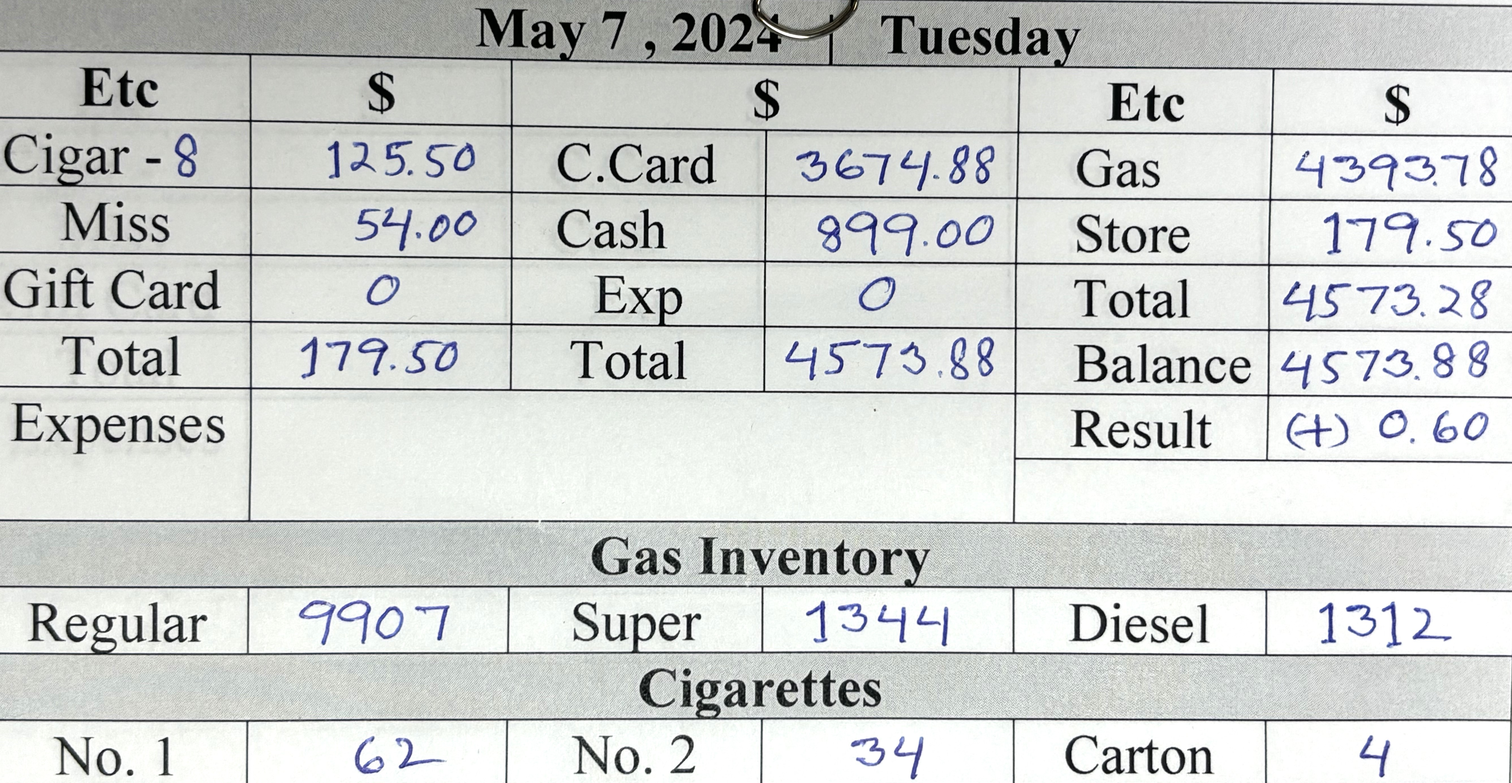
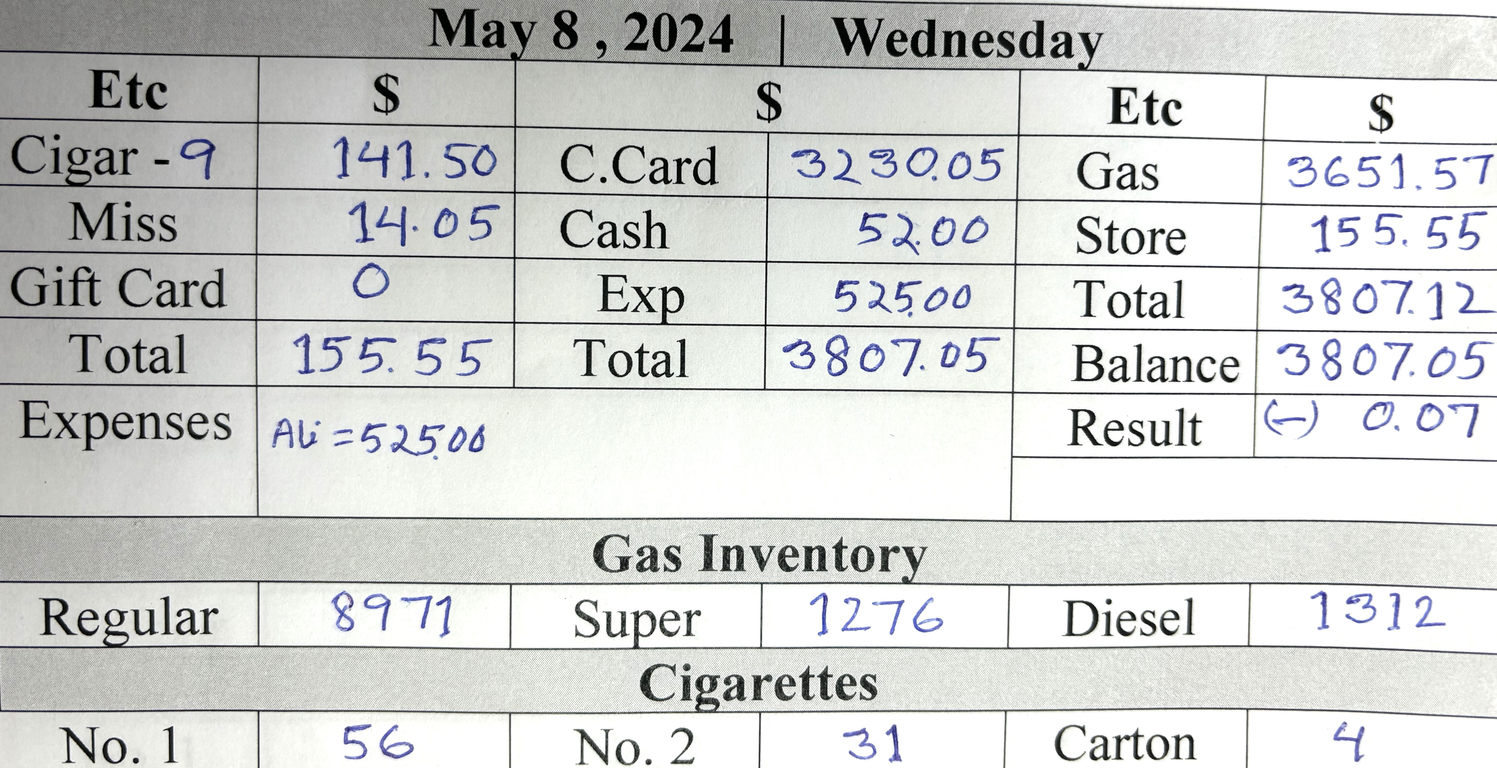
d

diff --git a/card.min.html b/card.min.html
@@ -1,1 +1,1 @@
-<!DOCTYPE html> <html lang="en"> <head> <meta charset="UTF-8"> <meta http-equiv="X-UA-Compatible" content="IE=edge"> <meta name="viewport" content="width=device-width,initial-scale=1"> <title>Gallon Info</title> <link rel="stylesheet" href="https://cdn.jsdelivr.net/npm/bootstrap@5.3.0-alpha1/dist/css/bootstrap.min.css"> </head> <body> <div class="card-group d-sm-flex flex-row bd-highlight mb- justify-content-center"> <div class="card bg-secondary align-items-center justify-content-center" style="height:50px"> <div class="card-body text-info fst-italic"> <h5 class="card-title fw-bolder text-center">Regular Price : <span class="text-warning">$3.59 <sup class="text-white fw-bolder fs-5">9</sup></span></h5> </div> </div> <div class="card bg-secondary align-items-center justify-content-center" style="height:50px"> <div class="card-body text-info fst-italic"> <h5 class="card-title fw-bolder text-center pt-">Silver Price : <span class="text-warning">$4.55<sup class="text-white fw-bolder fs-5">9</sup></span></h5> </div> </div> <div class="card bg-secondary align-items-center justify-content-center" style="height:50px"> <div class="card-body text-info fst-italic"> <h5 class="card-title fw-bolder text-center">Super Price : <span class="text-warning">$4.65<sup class="text-white fw-bolder fs-5">9</sup></span></h5> </div> </div> <div class="card bg-secondary align-items-center justify-content-center" style="height:50px"> <div class="card-body text-info fst-italic"> <h5 class="card-title fw-bolder text-center">Diesel Price : <span class="text-warning">$4.45<sup class="text-white fw-bolder fs-5">9</sup></span></h5> </div> </div> </div> <div class="card-group"> <div class="card"> <button type="button" class="btn btn-warning text- fs- fw-bold text-uppercase"> For store Details <a title="printPage Me" class="text-bg-danger ms-3 fw-bolder p-1 rounded-3 text-decoration-none" href="index.html"> Click Me </a> </button> </div> </div> <div class="card-group m-0 d-sm-flex flex-row bd-highlight mb-"> <div class="card me-1 bg-info"> <h5 class="card-title text-center pt-4 m-0"> <button class="p-1 rounded-3" type="button"><a title="Click Me" class="text-decoration-none text-primary fw-bolder" href="index.html">   </a> </button> </h5>  <p class="card-text"></p> <img src="allPic/7.jpg" class="card-img-top text-danger text-center fw-bolder fs-3" alt="Call Rashid "> <div class="card-body">   <p class="card-text"></p> </div> </div> <div class="card me-1 bg-info"> <h5 class="card-title text-center pt-4 m-0"> <button class="p-1 rounded-3" type="button"><a title="Click Me" class="text-primary fw-bolder text-decoration-none" href="index.html"> May 6,2024 </a> </button> </h5>  <p class="card-text"></p> <img src="allPic/6.jpg" class="card-img-top text-center text-bg-danger" alt="Not Done"> <div class="card-body">   <p class="card-text"></p> </div> </div> <div class="card ms- bg-info"> <h5 class="card-title text-center pt-4 m-0"> <button class="p-1 rounded-3" type="button"><a title="Click Me" class="text-primary fw-bolder text-decoration-none" href="index.html"> May 5,2024 </a> </button> </h5>  <p class="card-text"></p> <img src="allPic/5.jpg" class="card-img-top text-center text-bg-danger" alt="Not Done"> <div class="card-body">   <p class="card-text"></p> </div> </div> <div class="card me-1 bg-info"> <h5 class="card-title text-center pt-4 m-0"> <button class="p-1 rounded-3" type="button"><a title="Click Me" class="text-primary fw-bolder text-decoration-none" href="index.html"> May 4,2024 </a> </button> </h5>  <p class="card-text"></p> <img title="Pic" src="allPic/4.jpg" class="card-img-top text-bg-danger fw-bolder text-center" alt="Already Done"> <div class="card-body">   <p class="card-text"></p> </div> </div> </div> <div class="card"> <div class="card-header bg-warning text-dark fw-bolder text-center py-3"> All Rights Reserved @ Jaber Ali , 2024 </div> </div>  <script type="text/javascript">const timeElement=document.querySelector(".time"),dateElement=document.querySelector(".date");function formatTime(e){e.getHours(),e.getMinutes(),e.getHours();return""}function formatDate(e){return` ${["January","Marruary","March","April","May","June","July","August","September","October","November","December"][e.getMonth()]} ${e.getDate()-1}, ${e.getFullYear()}`}setInterval((()=>{const e=new Date;timeElement.textContent=formatTime(e),dateElement.textContent=formatDate(e)}),200)</script> 
+<!DOCTYPE html> <html lang="en"> <head> <meta charset="UTF-8"> <meta http-equiv="X-UA-Compatible" content="IE=edge"> <meta name="viewport" content="width=device-width,initial-scale=1"> <title>Gallon Info</title> <link rel="stylesheet" href="https://cdn.jsdelivr.net/npm/bootstrap@5.3.0-alpha1/dist/css/bootstrap.min.css"> </head> <body> <div class="card-group d-sm-flex flex-row bd-highlight mb- justify-content-center"> <div class="card bg-secondary align-items-center justify-content-center" style="height:50px"> <div class="card-body text-info fst-italic"> <h5 class="card-title fw-bolder text-center">Regular Price : <span class="text-warning">$3.59 <sup class="text-white fw-bolder fs-5">9</sup></span></h5> </div> </div> <div class="card bg-secondary align-items-center justify-content-center" style="height:50px"> <div class="card-body text-info fst-italic"> <h5 class="card-title fw-bolder text-center pt-">Silver Price : <span class="text-warning">$4.55<sup class="text-white fw-bolder fs-5">9</sup></span></h5> </div> </div> <div class="card bg-secondary align-items-center justify-content-center" style="height:50px"> <div class="card-body text-info fst-italic"> <h5 class="card-title fw-bolder text-center">Super Price : <span class="text-warning">$4.65<sup class="text-white fw-bolder fs-5">9</sup></span></h5> </div> </div> <div class="card bg-secondary align-items-center justify-content-center" style="height:50px"> <div class="card-body text-info fst-italic"> <h5 class="card-title fw-bolder text-center">Diesel Price : <span class="text-warning">$4.45<sup class="text-white fw-bolder fs-5">9</sup></span></h5> </div> </div> </div> <div class="card-group"> <div class="card"> <button type="button" class="btn btn-warning text- fs- fw-bold text-uppercase"> For store Details <a title="printPage Me" class="text-bg-danger ms-3 fw-bolder p-1 rounded-3 text-decoration-none" href="index.html"> Click Me </a> </button> </div> </div> <div class="card-group m-0 d-sm-flex flex-row bd-highlight mb-"> <div class="card me-1 bg-info"> <h5 class="card-title text-center pt-4 m-0"> <button class="p-1 rounded-3" type="button"><a title="Click Me" class="text-decoration-none text-primary fw-bolder" href="index.html">   </a> </button> </h5>  <p class="card-text"></p> <img src="allPic/8.jpg" class="card-img-top text-danger text-center fw-bolder fs-3" alt="Call Rashid "> <div class="card-body">   <p class="card-text"></p> </div> </div> <div class="card me-1 bg-info"> <h5 class="card-title text-center pt-4 m-0"> <button class="p-1 rounded-3" type="button"><a title="Click Me" class="text-primary fw-bolder text-decoration-none" href="index.html"> May 7,2024 </a> </button> </h5>  <p class="card-text"></p> <img src="allPic/7.jpg" class="card-img-top text-center text-bg-danger" alt="Not Done"> <div class="card-body">   <p class="card-text"></p> </div> </div> <div class="card ms- bg-info"> <h5 class="card-title text-center pt-4 m-0"> <button class="p-1 rounded-3" type="button"><a title="Click Me" class="text-primary fw-bolder text-decoration-none" href="index.html"> May 6,2024 </a> </button> </h5>  <p class="card-text"></p> <img src="allPic/6.jpg" class="card-img-top text-center text-bg-danger" alt="Not Done"> <div class="card-body">   <p class="card-text"></p> </div> </div> <div class="card me-1 bg-info"> <h5 class="card-title text-center pt-4 m-0"> <button class="p-1 rounded-3" type="button"><a title="Click Me" class="text-primary fw-bolder text-decoration-none" href="index.html"> May 5,2024 </a> </button> </h5>  <p class="card-text"></p> <img title="Pic" src="allPic/5.jpg" class="card-img-top text-bg-danger fw-bolder text-center" alt="Already Done"> <div class="card-body">   <p class="card-text"></p> </div> </div> </div> <div class="card"> <div class="card-header bg-warning text-dark fw-bolder text-center py-3"> All Rights Reserved @ Jaber Ali , 2024 </div> </div>  <script type="text/javascript">const timeElement=document.querySelector(".time"),dateElement=document.querySelector(".date");function formatTime(e){e.getHours(),e.getMinutes(),e.getHours();return""}function formatDate(e){return` ${["January","Marruary","March","April","May","June","July","August","September","October","November","December"][e.getMonth()]} ${e.getDate()-1}, ${e.getFullYear()}`}setInterval((()=>{const e=new Date;timeElement.textContent=formatTime(e),dateElement.textContent=formatDate(e)}),200)</script> 

diff --git a/weekly.min.html b/weekly.min.html
@@ -1,1 +1,1 @@
-<!DOCTYPE html> <html lang="en"> <meta charset="UTF-8"> <meta http-equiv="X-UA-Compatible" content="IE=edge"> <meta name="viewport" content="width=device-width,initial-scale=1"> <title>Cigarettes Info</title> <link rel="stylesheet" href="https://cdn.jsdelivr.net/npm/bootstrap@5.3.0-alpha1/dist/css/bootstrap.min.css">  <body> <div class="text-bg-success py-2 fw-bold"> <marquee behavior="" direction="">Weekly Total Sales Money</marquee> </div> <div class="container-fluid text-center m-0 p-0"> <div class="card-group"> <div class="card"> <button type="button" class="btn btn-warning fs- fw-bold text-uppercase"> Home Page <a title="printPage Me" class="text-bg-danger ms-2 fw-bolder p-1 rounded-3 text-decoration-none" href="index.html"> Click Me </a> </button> </div> </div> <div class="text-bg-info text-cente py- fw-bold mb-"> <div class="card-group m-0 d-sm-flex flex-row bd-highlight mb-"> <div class="card me- bg-inf"> <h5 class="text-center ms-5 mt-3 text-danger">Current Week</h5> <div class="card-body ms-3 p-0"> <table class="table"> <tr class="text-end"> <td>Monday </td> <td>:</td> <td class="text-start"> - 497.00 [auto pabe]</td> </tr> <tr class="text-end"> <td>Tuesday </td> <td> :</td> <td class="text-start"> 899.00 </td> </tr> <tr class="text-end"> <td>Wednesday</td> <td> :</td> <td class="text-start"> .00</td> </tr> <tr class="text-end"> <td>Thursday </td> <td> :</td> <td class="text-start">.00 </td> </tr> <tr class="text-end"> <td class="">Friday </td> <td> :</td> <td class="text-start"> .00</td> </tr> <tr class="text-end"> <td>Saturday </td> <td> :</td> <td class="text-start"> .00</td> </tr> <tr class="text-end"> <td>Sunday </td> <td> :</td> <td class="text-start"> .00 </td> </tr> <tr class="text-end"> <td>Auto Money </td> <td> :</td> <td class="text-start"> .00 </td> </tr> </table> <div class="m-0 p-0"> <p class="text-center text-danger bg-light fw-bold">Total Money : 0 </p> </div> </div> </div> <div class="card me- bg-inf"> <h5 class="text-center ms- mt-3 text-danger">Last Week : Apr 29 to May 5 , 2024</h5> <div class="card-body ms-3 p-0"> <table class="table"> <tr class="text-end"> <td>Monday </td> <td>:</td> <td class="text-start"> 1129.00</td> </tr> <tr class="text-end"> <td>Tuesday </td> <td> :</td> <td class="text-start"> 813.00 </td> </tr> <tr class="text-end"> <td>Wednesday</td> <td> :</td> <td class="text-start"> 492.00</td> </tr> <tr class="text-end"> <td>Thursday </td> <td> :</td> <td class="text-start">190.00 </td> </tr> <tr class="text-end"> <td class="">Friday </td> <td> :</td> <td class="text-start"> 806.00</td> </tr> <tr class="text-end"> <td>Saturday </td> <td> :</td> <td class="text-start"> 1015.00</td> </tr> <tr class="text-end"> <td>Sunday </td> <td> :</td> <td class="text-start"> 647.00 </td> </tr> <tr class="text-end"> <td>Auto Money </td> <td> :</td> <td class="text-start"> 1012 <sup class="p-1 rounded-4 text-bg-dark">Tax:99</sup> [Mostofa=913] </td> </tr> </table> <div class="m-0 p-0"> <p class="text-center text-danger bg-light fw-bold">Total Money : 6104 - 1219 = 4885 </p> </div> </div> </div> <div class="card me- bg-"> <div class="card-body"> <h5 class="text-start text-danger ms-2">Expenses of Last Week</h5> <table class="table text-start"> <tr> <td class="">Ali <span class="ms-5">: 525.00</span></td> </tr> <tr> <td class="">Rashid <span class="ms-3">: 572.00</span></td> </tr> <tr> <td class="">Landscaping <span class="ms-2">: 120.00</span></td> </tr> <tr> <td class="">Pump Test <span class="ms-2">: 2.00</span></td> </tr> <tr> <td class="text-bg-warning text-dark rounded-2">Total <span class="ms-4">: 1219.00</span></td> </tr> </table> </div> </div> </div> </div> <!-- #footer start --> <div class="text-bg-success text-center py-2 fw-bold"> <p> All Rights Reserved @ Jaber Ali , 2024  </p> </div> </div> <script type="text/javascript">function printPage(){window.print()}</script> 
+<!DOCTYPE html> <html lang="en"> <meta charset="UTF-8"> <meta http-equiv="X-UA-Compatible" content="IE=edge"> <meta name="viewport" content="width=device-width,initial-scale=1"> <title>Cigarettes Info</title> <link rel="stylesheet" href="https://cdn.jsdelivr.net/npm/bootstrap@5.3.0-alpha1/dist/css/bootstrap.min.css">  <body> <div class="text-bg-success py-2 fw-bold"> <marquee behavior="" direction="">Weekly Total Sales Money</marquee> </div> <div class="container-fluid text-center m-0 p-0"> <div class="card-group"> <div class="card"> <button type="button" class="btn btn-warning fs- fw-bold text-uppercase"> Home Page <a title="printPage Me" class="text-bg-danger ms-2 fw-bolder p-1 rounded-3 text-decoration-none" href="index.html"> Click Me </a> </button> </div> </div> <div class="text-bg-info text-cente py- fw-bold mb-"> <div class="card-group m-0 d-sm-flex flex-row bd-highlight mb-"> <div class="card me- bg-inf"> <h5 class="text-center ms-5 mt-3 text-danger">Current Week</h5> <div class="card-body ms-3 p-0"> <table class="table"> <tr class="text-end"> <td>Monday </td> <td>:</td> <td class="text-start"> - 497.00 [auto pabe]</td> </tr> <tr class="text-end"> <td>Tuesday </td> <td> :</td> <td class="text-start"> 899.00 </td> </tr> <tr class="text-end"> <td>Wednesday</td> <td> :</td> <td class="text-start"> 577.00</td> </tr> <tr class="text-end"> <td>Thursday </td> <td> :</td> <td class="text-start">.00 </td> </tr> <tr class="text-end"> <td class="">Friday </td> <td> :</td> <td class="text-start"> .00</td> </tr> <tr class="text-end"> <td>Saturday </td> <td> :</td> <td class="text-start"> .00</td> </tr> <tr class="text-end"> <td>Sunday </td> <td> :</td> <td class="text-start"> .00 </td> </tr> <tr class="text-end"> <td>Auto Money </td> <td> :</td> <td class="text-start"> .00 </td> </tr> </table> <div class="m-0 p-0"> <p class="text-center text-danger bg-light fw-bold">Total Money : 0 </p> </div> </div> </div> <div class="card me- bg-inf"> <h5 class="text-center ms- mt-3 text-danger">Last Week : Apr 29 to May 5 , 2024</h5> <div class="card-body ms-3 p-0"> <table class="table"> <tr class="text-end"> <td>Monday </td> <td>:</td> <td class="text-start"> 1129.00</td> </tr> <tr class="text-end"> <td>Tuesday </td> <td> :</td> <td class="text-start"> 813.00 </td> </tr> <tr class="text-end"> <td>Wednesday</td> <td> :</td> <td class="text-start"> 492.00</td> </tr> <tr class="text-end"> <td>Thursday </td> <td> :</td> <td class="text-start">190.00 </td> </tr> <tr class="text-end"> <td class="">Friday </td> <td> :</td> <td class="text-start"> 806.00</td> </tr> <tr class="text-end"> <td>Saturday </td> <td> :</td> <td class="text-start"> 1015.00</td> </tr> <tr class="text-end"> <td>Sunday </td> <td> :</td> <td class="text-start"> 647.00 </td> </tr> <tr class="text-end"> <td>Auto Money </td> <td> :</td> <td class="text-start"> 1012 <sup class="p-1 rounded-4 text-bg-dark">Tax:99</sup> [Mostofa=913] </td> </tr> </table> <div class="m-0 p-0"> <p class="text-center text-danger bg-light fw-bold">Total Money : 6104 - 1219 = 4885 </p> </div> </div> </div> <div class="card me- bg-"> <div class="card-body"> <h5 class="text-start text-danger ms-2">Expenses of Last Week</h5> <table class="table text-start"> <tr> <td class="">Ali <span class="ms-5">: 525.00</span></td> </tr> <tr> <td class="">Rashid <span class="ms-3">: 572.00</span></td> </tr> <tr> <td class="">Landscaping <span class="ms-2">: 120.00</span></td> </tr> <tr> <td class="">Pump Test <span class="ms-2">: 2.00</span></td> </tr> <tr> <td class="text-bg-warning text-dark rounded-2">Total <span class="ms-4">: 1219.00</span></td> </tr> </table> </div> </div> </div> </div> <!-- #footer start --> <div class="text-bg-success text-center py-2 fw-bold"> <p> All Rights Reserved @ Jaber Ali , 2024  </p> </div> </div> <script type="text/javascript">function printPage(){window.print()}</script> 

diff --git a/index.min.html b/index.min.html
@@ -1,1 +1,1 @@
-<!DOCTYPE html> <html lang="en"> <head> <meta charset="UTF-8"> <meta http-equiv="X-UA-Compatible" content="IE=edge"> <meta name="viewport" content="width=device-width,initial-scale=1"> <title>Store Info</title> <link rel="stylesheet" href="https://cdn.jsdelivr.net/npm/bootstrap@5.3.0-alpha1/dist/css/bootstrap.min.css"> </head> <body> <div class="text-bg-success py-2 fw-bold text-uppercase"> <marquee behavior="" direction=""><span class="text-bolder text-bg-danger rounded-circle m-lg-2 fs-">***</span> Personal Business Information <span class="text-bolder text-bg-danger rounded-circle m-lg-2 fs-">***</span></marquee> </div> <div class="card-group"> <div class="card"> <button type="button" class="btn btn-warning fs- fw-bold text-uppercase"> For Gallon Details <a title="printPage Me" class="text-bg-danger ms-3 fw-bolder p-1 rounded-3 text-decoration-none" href="card.html"> Click Me </a> </button> </div> <div class="card"> <button type="button" class="btn btn-warning fs- fw-bold text-uppercase"> Weekly Total Money<a title="printPage Me" class="text-bg-danger ms-3 fw-bolder p-1 rounded-3 text-decoration-none" href="weekly.html"> Click Me </a> </button> </div> </div> <div class="card-group"> <div class="card"> <button type="button" class="btn btn-warning fs- fw-bold text-uppercase"> Order Cigarettes <a title="printPage Me" class="text-bg-danger ms-3 fw-bolder p-1 rounded-3 text-decoration-none" href="cigarettes.html"> Click Me </a> </button> </div> <div class="card"> <button type="button" class="btn btn-warning fs- fw-bold text-uppercase"> Oil Inventory<a title="printPage Me" class="text-bg-danger ms-3 fw-bolder p-1 rounded-3 text-decoration-none" href="oil.html"> Click Me </a> </button> </div> </div> <div class="text-center py-2"> <button class="fw-bold fs-5 rounded-2 text-bg-light text-primary"> <a title="printPage Me" class="text-decoration-none" href="card.html">   <span class=""> <button class="ms-5 fw-bolder rounded-2" onclick="printPage()"> Print Me </button></span> </a> </button> </div> <div class="card-group"> <div class="card"> <button type="button" class="btn btn-info fs- fw-bold text-uppercase"> Shift Report <span class="text-white ms-1">*</span> </button> <img src="allPic/hisab.jpg" class="card-img-top text-center text-bg-danger" alt="NOT FINISH"> </div> </div> <div class="card-grou"> <div class="card pb-3"> <button type="button" class="btn btn-secondary fs fw-bold text-uppercase"> Exp : <span class="text-warning ms-3">0 </span> </button> </div> </div> <div class="card-group"> <div class="card"> <button type="button" class="btn btn-secondary fs- fw-bold text-uppercase"> Auto shop </button> </div> </div> <div class="pb-3"> <div class="d-flex justify-content-around border border-dark fw-bolder"> <div class="p-0 text-info">T.M</div> <div class="p-0 text-danger">1038</div> <div class="p-0 text-info">Etc</div> <div class="p-0 text-danger">755</div> <div class="p-0 text-info">Rest</div> <div class="p-0 text-danger"> 283 </div> </div> </div> <!-- #footer start --> <div class="text-bg-warning text-center py-3 fw-bold"> All Rights Reserved @ Jaber Ali , 2024 </div>  <script type="text/javascript">function printPage(){window.print()}const timeElement=document.querySelector(".time"),dateElement=document.querySelector(".date");function formatTime(t){const e=t.getHours()%12||12,n=t.getMinutes(),r=t.getHours()<12;return`${e.toString().padStart(2,"0")}:${n.toString().padStart(2,"0")} ${r?"AM":"PM"}`}function formatDate(t){return` ${["January","February","March","April","May","June","July","August","September","October","November","December"][t.getMonth()]} ${t.getDate()-1}, ${t.getFullYear()}`}setInterval((()=>{const t=new Date;timeElement.textContent=formatTime(t),dateElement.textContent=formatDate(t)}),200)</script> 
+<!DOCTYPE html> <html lang="en"> <head> <meta charset="UTF-8"> <meta http-equiv="X-UA-Compatible" content="IE=edge"> <meta name="viewport" content="width=device-width,initial-scale=1"> <title>Store Info</title> <link rel="stylesheet" href="https://cdn.jsdelivr.net/npm/bootstrap@5.3.0-alpha1/dist/css/bootstrap.min.css"> </head> <body> <div class="text-bg-success py-2 fw-bold text-uppercase"> <marquee behavior="" direction=""><span class="text-bolder text-bg-danger rounded-circle m-lg-2 fs-">***</span> Personal Business Information <span class="text-bolder text-bg-danger rounded-circle m-lg-2 fs-">***</span></marquee> </div> <div class="card-group"> <div class="card"> <button type="button" class="btn btn-warning fs- fw-bold text-uppercase"> For Gallon Details <a title="printPage Me" class="text-bg-danger ms-3 fw-bolder p-1 rounded-3 text-decoration-none" href="card.html"> Click Me </a> </button> </div> <div class="card"> <button type="button" class="btn btn-warning fs- fw-bold text-uppercase"> Weekly Total Money<a title="printPage Me" class="text-bg-danger ms-3 fw-bolder p-1 rounded-3 text-decoration-none" href="weekly.html"> Click Me </a> </button> </div> </div> <div class="card-group"> <div class="card"> <button type="button" class="btn btn-warning fs- fw-bold text-uppercase"> Order Cigarettes <a title="printPage Me" class="text-bg-danger ms-3 fw-bolder p-1 rounded-3 text-decoration-none" href="cigarettes.html"> Click Me </a> </button> </div> <div class="card"> <button type="button" class="btn btn-warning fs- fw-bold text-uppercase"> Oil Inventory<a title="printPage Me" class="text-bg-danger ms-3 fw-bolder p-1 rounded-3 text-decoration-none" href="oil.html"> Click Me </a> </button> </div> </div> <div class="text-center py-2"> <button class="fw-bold fs-5 rounded-2 text-bg-light text-primary"> <a title="printPage Me" class="text-decoration-none" href="card.html">   <span class=""> <button class="ms-5 fw-bolder rounded-2" onclick="printPage()"> Print Me </button></span> </a> </button> </div> <div class="card-group"> <div class="card"> <button type="button" class="btn btn-info fs- fw-bold text-uppercase"> Shift Report <span class="text-white ms-1">*</span> </button> <img src="allPic/hisab.jpg" class="card-img-top text-center text-bg-danger" alt="NOT FINISH"> </div> </div> <div class="card-grou"> <div class="card pb-3"> <button type="button" class="btn btn-secondary fs fw-bold text-uppercase"> Exp : <span class="text-warning ms-3">0 </span> </button> </div> </div> <div class="card-group"> <div class="card"> <button type="button" class="btn btn-secondary fs- fw-bold text-uppercase"> Auto shop </button> </div> </div> <div class="pb-3"> <div class="d-flex justify-content-around border border-dark fw-bolder"> <div class="p-0 text-info">T.M</div> <div class="p-0 text-danger">3451</div> <div class="p-0 text-info">Etc</div> <div class="p-0 text-danger">1006</div> <div class="p-0 text-info">Rest</div> <div class="p-0 text-danger"> 2445 </div> </div> </div> <!-- #footer start --> <div class="text-bg-warning text-center py-3 fw-bold"> All Rights Reserved @ Jaber Ali , 2024 </div>  <script type="text/javascript">function printPage(){window.print()}const timeElement=document.querySelector(".time"),dateElement=document.querySelector(".date");function formatTime(t){const e=t.getHours()%12||12,n=t.getMinutes(),r=t.getHours()<12;return`${e.toString().padStart(2,"0")}:${n.toString().padStart(2,"0")} ${r?"AM":"PM"}`}function formatDate(t){return` ${["January","February","March","April","May","June","July","August","September","October","November","December"][t.getMonth()]} ${t.getDate()-1}, ${t.getFullYear()}`}setInterval((()=>{const t=new Date;timeElement.textContent=formatTime(t),dateElement.textContent=formatDate(t)}),200)</script> 

diff --git a/oil.min.html b/oil.min.html
@@ -1,1 +1,1 @@
-<!DOCTYPE html> <html lang="en"> <meta charset="UTF-8"> <meta http-equiv="X-UA-Compatible" content="IE=edge"> <meta name="viewport" content="width=device-width,initial-scale=1"> <title>Oil Inentory</title> <link rel="stylesheet" href="https://cdn.jsdelivr.net/npm/bootstrap@5.3.0-alpha1/dist/css/bootstrap.min.css">  <body> <div class="text-bg-success py-2 fw-bold"> <marquee behavior="" direction="">OIL INVENTORY</marquee> </div> <div class="container-fluid text-center m-0 p-0"> <div class="card-group"> <div class="card"> <button type="button" class="btn btn-warning fs- fw-bold text-uppercase"> Home Page <a title="printPage Me" class="text-bg-danger ms-2 fw-bolder p-1 rounded-3 text-decoration-none" href="index.html"> Click Me </a> </button> </div> </div> <div class="text-bg-inf fw-bold mb-"> <div class="card-group m- text-cente d-sm-flex flex-row bd-highlight mb-"> <div class="container mt-3"> <h3>Oil Inventory</h3> <div class="table-responsive-sm"> <table class="table table-bordered"> <tbody> <thead class="text-bg-dark fw-bolder"> <tr> <td>Name</td> <td>Quantity</td> <td>Sold</td> </tr> </thead> <tr> <td>Synthetic Oil</td> <td>24</td> <td>2</td> </tr> <tr> <td>Regular Oil</td> <td>42</td> <td>0 </td> </tr> <tr> <td>Washer Fluid</td> <td>1</td> <td>0</td> </tr> <tr> <td>Antifreeze </td> <td>2</td> <td>1</td> </tr> <tr> <td>Gas Can</td> <td>3</td> <td>0</td> </tr> <tr> <td>Rhino Item</td> <td>106</td> <td>0</td> </tr> </tbody> </table> </div> </div> </div> </div> </div> <!-- #footer start --> <div class="text-bg-success text-center py-2 fw-bold"> <p> All Rights Reserved @ Jaber Ali , 2024  </p> </div>  <script type="text/javascript">function printPage(){window.print()}</script> 
+<!DOCTYPE html> <html lang="en"> <meta charset="UTF-8"> <meta http-equiv="X-UA-Compatible" content="IE=edge"> <meta name="viewport" content="width=device-width,initial-scale=1"> <title>Oil Inentory</title> <link rel="stylesheet" href="https://cdn.jsdelivr.net/npm/bootstrap@5.3.0-alpha1/dist/css/bootstrap.min.css">  <body> <div class="text-bg-success py-2 fw-bold"> <marquee behavior="" direction="">OIL INVENTORY</marquee> </div> <div class="container-fluid text-center m-0 p-0"> <div class="card-group"> <div class="card"> <button type="button" class="btn btn-warning fs- fw-bold text-uppercase"> Home Page <a title="printPage Me" class="text-bg-danger ms-2 fw-bolder p-1 rounded-3 text-decoration-none" href="index.html"> Click Me </a> </button> </div> </div> <div class="text-bg-inf fw-bold mb-"> <div class="card-group m- text-cente d-sm-flex flex-row bd-highlight mb-"> <div class="container mt-3"> <h3>Oil Inventory</h3> <div class="table-responsive-sm"> <table class="table table-bordered"> <tbody> <thead class="text-bg-dark fw-bolder"> <tr> <td>Name</td> <td>Quantity</td> <td>Sold</td> </tr> </thead> <tr> <td>Synthetic Oil</td> <td>24</td> <td>0</td> </tr> <tr> <td>Regular Oil</td> <td>42</td> <td>0 </td> </tr> <tr> <td>Washer Fluid</td> <td>1</td> <td>0</td> </tr> <tr> <td>Antifreeze </td> <td>2</td> <td>0</td> </tr> <tr> <td>Gas Can</td> <td>3</td> <td>0</td> </tr> <tr> <td>Rhino Item</td> <td>106</td> <td>0</td> </tr> </tbody> </table> </div> </div> </div> </div> </div> <!-- #footer start --> <div class="text-bg-success text-center py-2 fw-bold"> <p> All Rights Reserved @ Jaber Ali , 2024  </p> </div>  <script type="text/javascript">function printPage(){window.print()}</script> 

diff --git a/card.html b/card.html
@@ -67,7 +67,7 @@
         </h5>
           <p class="card-text"></p>
           <p class="card-text"><small class="text-muted"></small></p>
-        <img src="allPic/7.jpg" class="card-img-top text-danger text-center fw-bolder fs-3"   alt="Call Rashid ">
+        <img src="allPic/8.jpg" class="card-img-top text-danger text-center fw-bolder fs-3"   alt="Call Rashid ">
         <div class="card-body">
           <h5 class="card-title"></h5>
           <p class="card-text"></p>
@@ -78,13 +78,13 @@
         <h5 class="card-title text-center pt-4 m-0">
           <button class="p-1 rounded-3" type="button"><a title="Click Me"
              class="text-primary fw-bolder text-decoration-none " href="index.html">
-             May 6,2024
+             May 7,2024
           </a>
           </button>
         </h5>
           <p class="card-text"></p>
           <p class="card-text"><small class="text-muted"></small></p>
-        <img src="allPic/6.jpg" class="card-img-top text-center text-bg-danger" 
+        <img src="allPic/7.jpg" class="card-img-top text-center text-bg-danger" 
         alt="Not Done">
         <div class="card-body">
           <h5 class="card-title"></h5>
@@ -96,13 +96,13 @@
         <h5 class="card-title text-center pt-4 m-0 ">
           <button class="p-1 rounded-3" type="button"><a title="Click Me" 
             class="text-primary fw-bolder text-decoration-none " href="index.html">
-            May 5,2024         
+            May 6,2024         
           </a>
           </button>
           </h5>
           <p class="card-text"></p>
           <p class="card-text"><small class="text-muted"></small></p>
-        <img src="allPic/5.jpg" class="card-img-top text-center text-bg-danger" 
+        <img src="allPic/6.jpg" class="card-img-top text-center text-bg-danger" 
         alt="Not Done">
         <div class="card-body">
           <h5 class="card-title"></h5>
@@ -115,13 +115,13 @@
         <h5 class="card-title text-center pt-4 m-0 ">
           <button class="p-1 rounded-3" type="button"><a title="Click Me" 
             class="text-primary fw-bolder text-decoration-none " href="index.html">
-             May 4,2024
+             May 5,2024
             </a>
           </button>
           </h5>
           <p class="card-text"></p>
           <p class="card-text"><small class="text-muted"></small></p>
-        <img title="Pic" src="allPic/4.jpg" class="card-img-top  text-bg-danger fw-bolder text-center"
+        <img title="Pic" src="allPic/5.jpg" class="card-img-top  text-bg-danger fw-bolder text-center"
          alt="Already Done">
         <div class="card-body">
           <h5 class="card-title"></h5>

diff --git a/index.html b/index.html
@@ -118,11 +118,11 @@
       <div class="d-flex justify-content-around border border-dark fw-bolder">
         <!--this week start-->
         <div class="p-0 text-info">T.M</div>
-        <div class="p-0 text-danger">1038</div>
+        <div class="p-0 text-danger">3451</div>
         <div class="p-0 text-info">Etc</div>
-        <div class="p-0 text-danger">755</div>
+        <div class="p-0 text-danger">1006</div>
         <div class="p-0 text-info">Rest</div>
-        <div class="p-0 text-danger"> 283 </div>
+        <div class="p-0 text-danger"> 2445 </div>
           <!--55-->
         </div>
       </div>

diff --git a/oil.html b/oil.html
@@ -57,7 +57,7 @@
                   <tr>
                     <td>Synthetic Oil</td>
                     <td>24</td>
-                    <td>2</td>
+                    <td>0</td>
                   </tr>
                   <tr>
                     <td>Regular Oil</td>
@@ -73,7 +73,7 @@
                   <tr>
                     <td>Antifreeze </td>
                     <td>2</td>
-                    <td>1</td>
+                    <td>0</td>
                   </tr>
                   <tr>
                     <td>Gas Can</td>

diff --git a/weekly.html b/weekly.html
@@ -59,7 +59,7 @@
                 <tr class=" text-end">
                     <td>Wednesday</td>
                     <td> :</td>
-                    <td class="text-start"> .00</td>
+                    <td class="text-start"> 577.00</td>
                 </tr>
                 <tr class=" text-end">
                     <td>Thursday </td>
